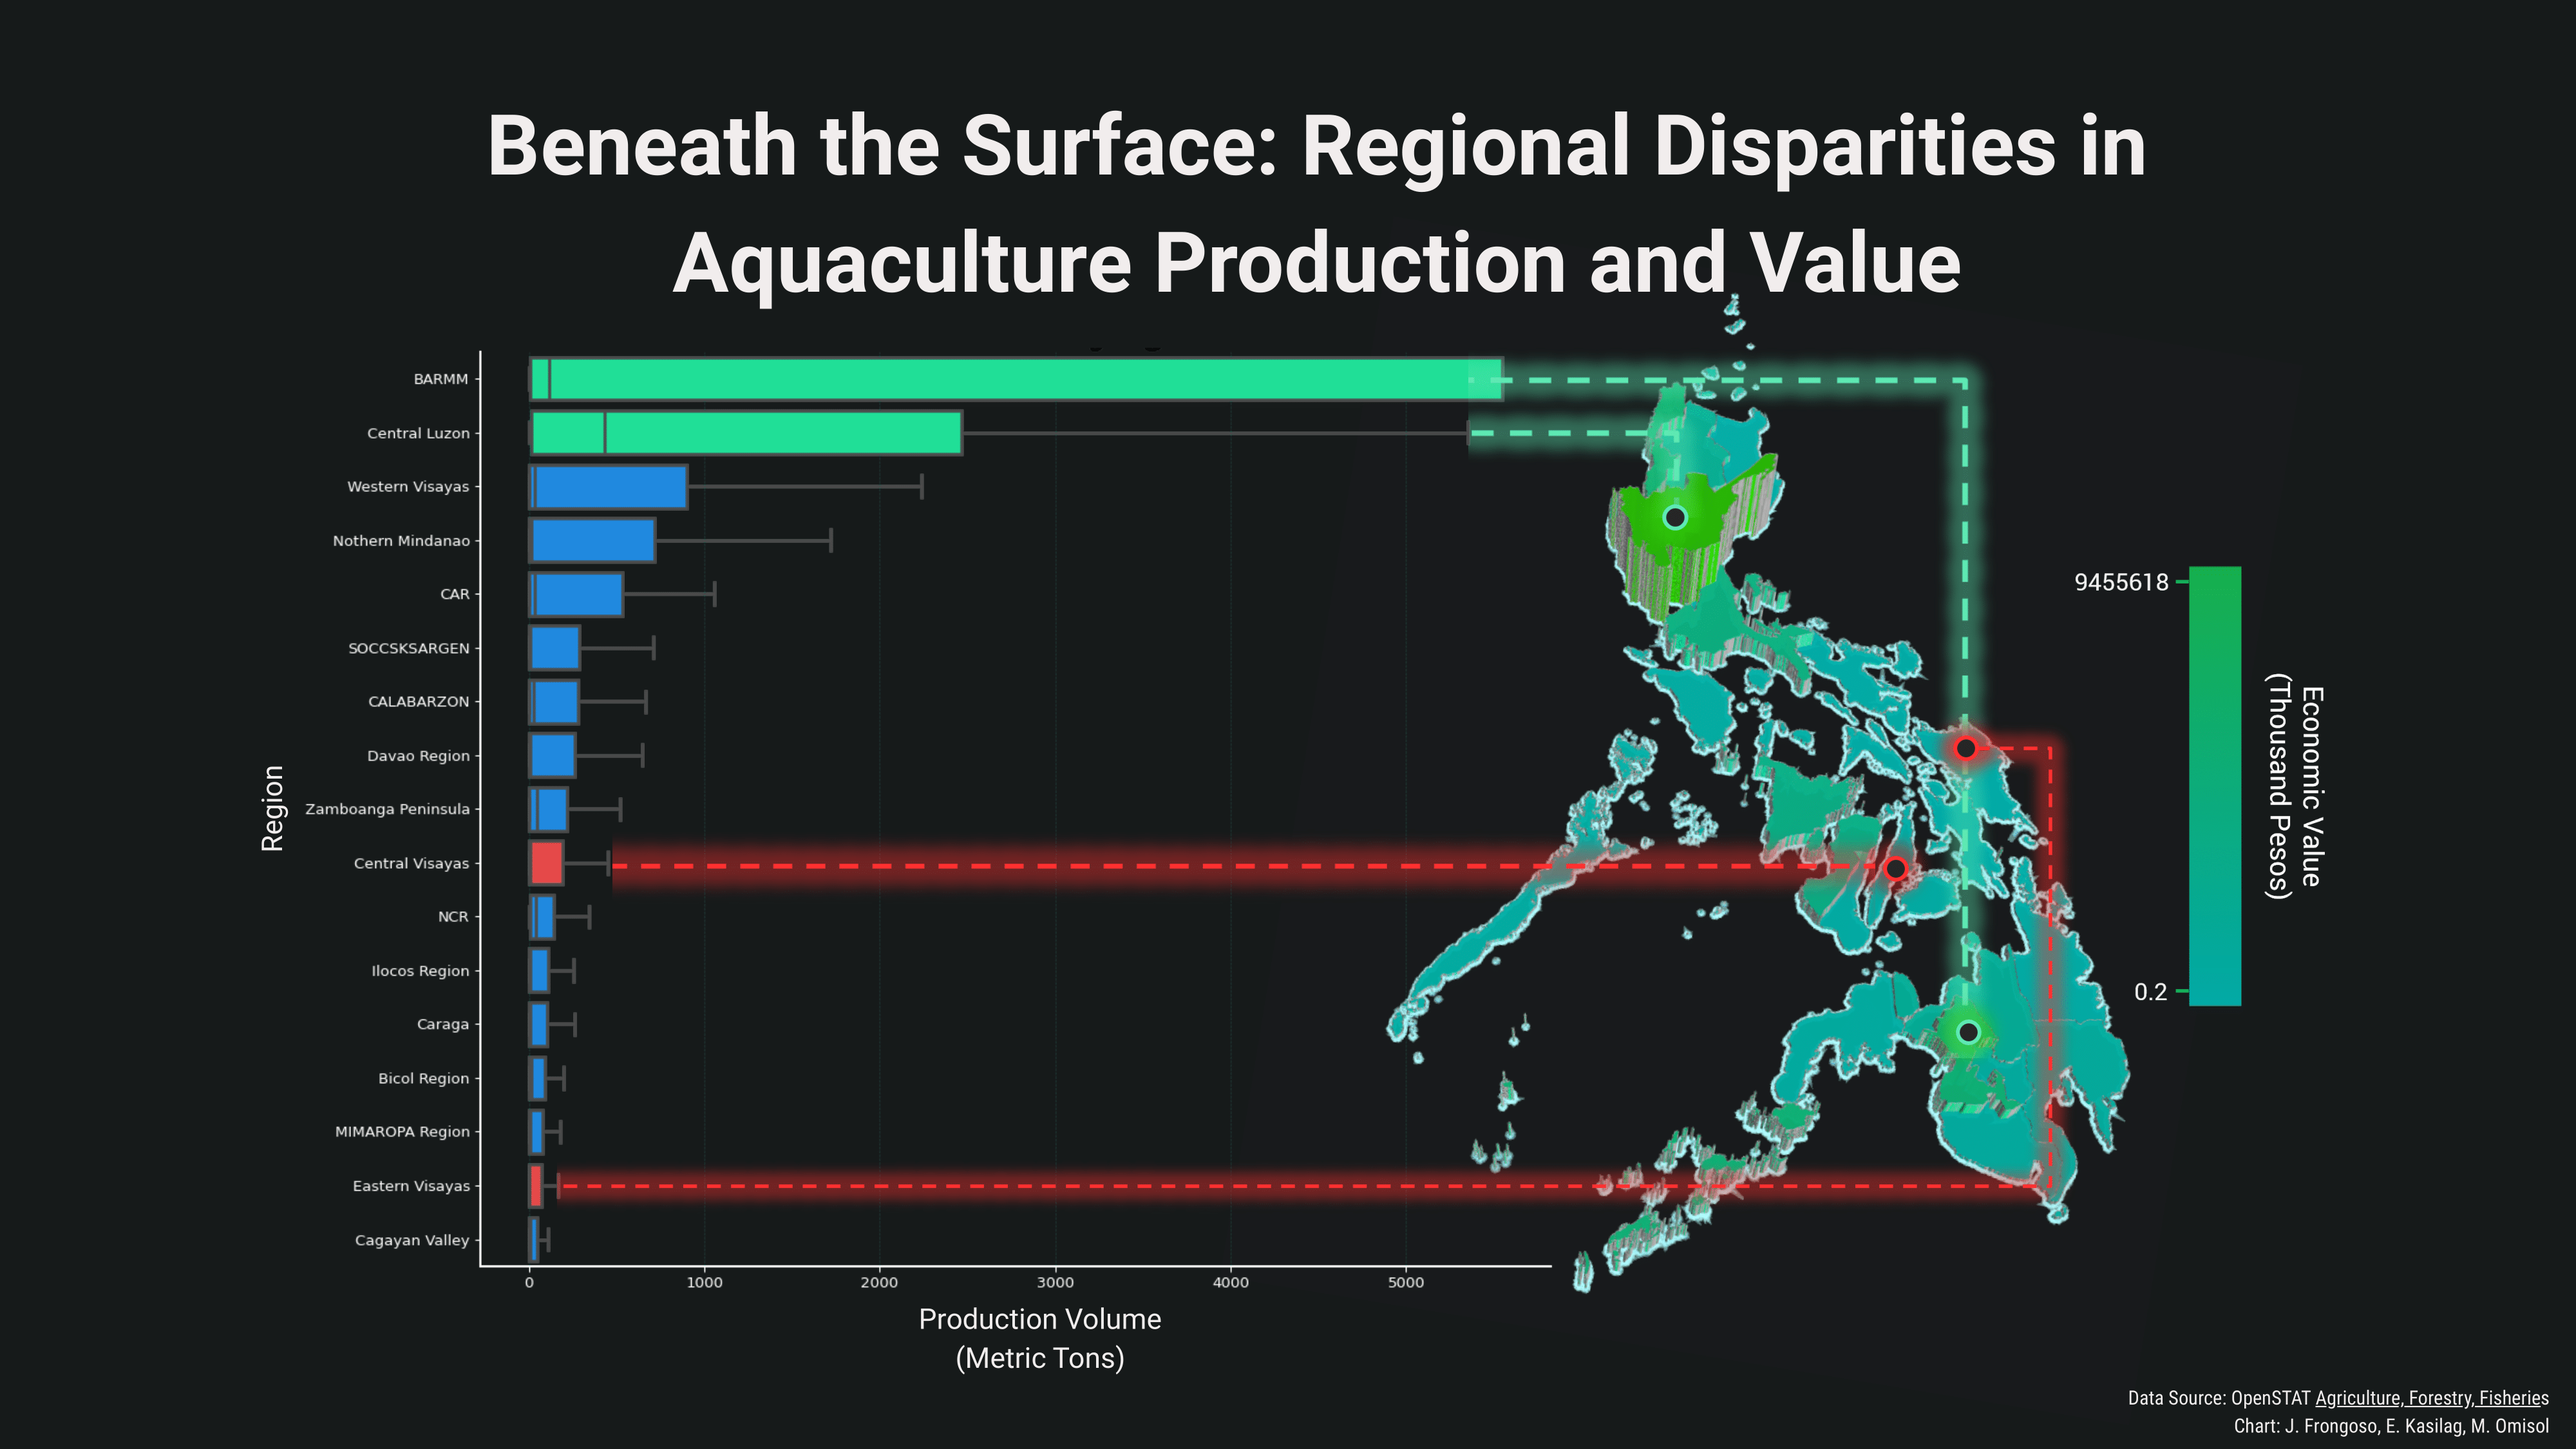
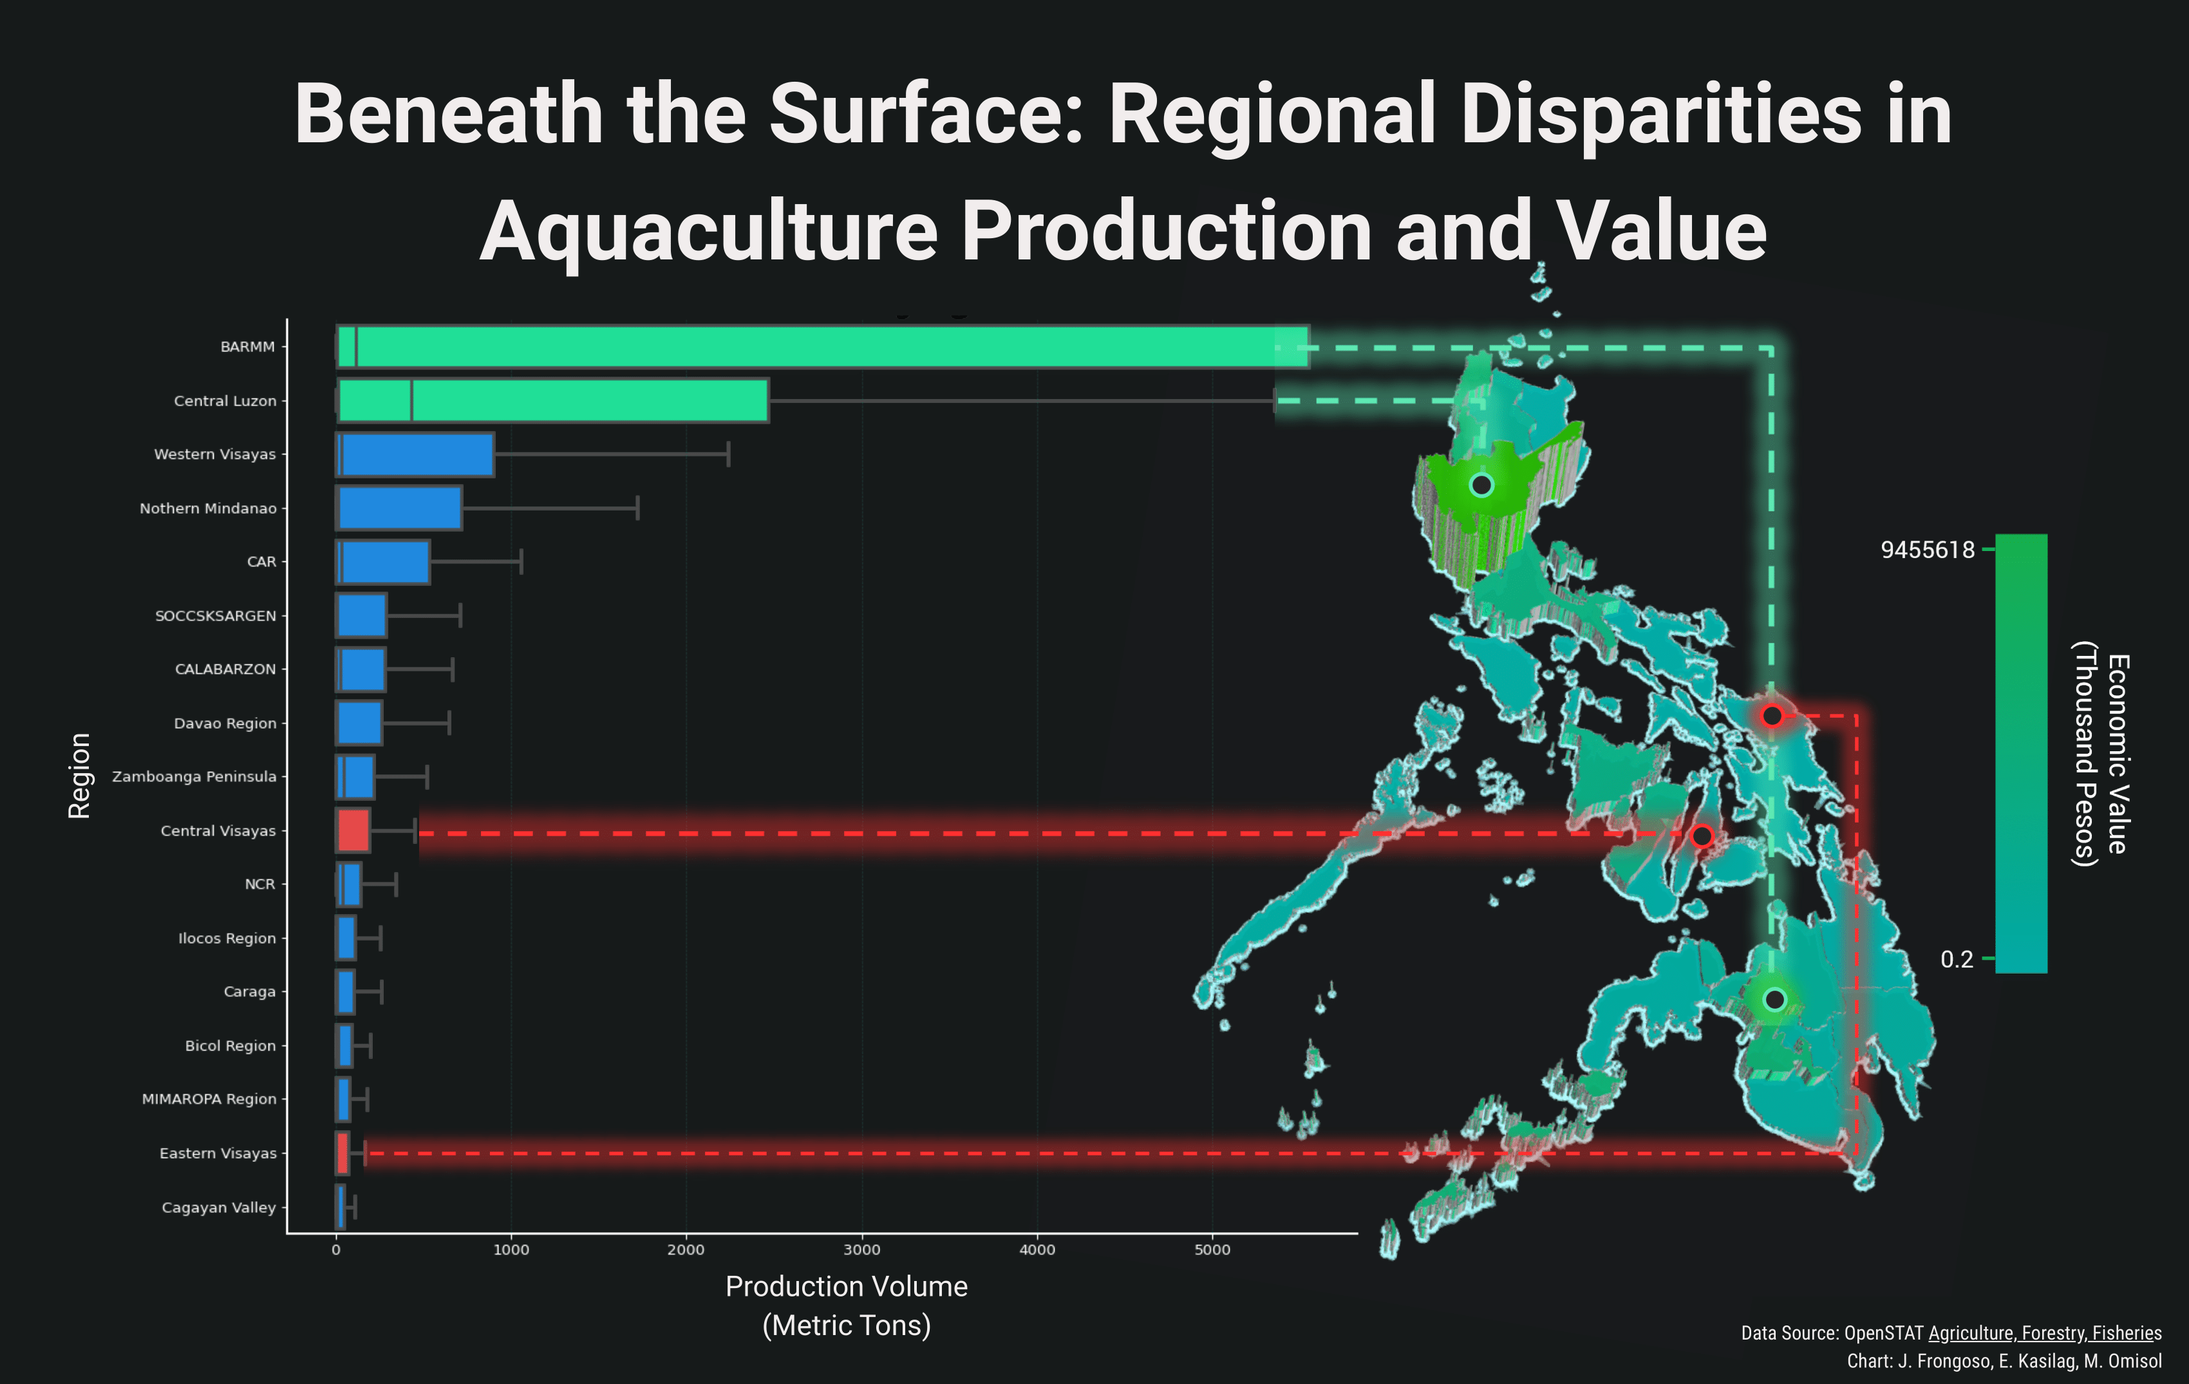
style: overhaul Nutshell.svelte

Changed region(s): [[0.0624, 0.0623, 0.9665, 0.966], [0.8106, 0.9349, 0.9976, 0.9972], [0.0312, 0.5298, 0.0624, 0.5921]]

diff --git a/src/routes/Nutshell.svelte b/src/routes/Nutshell.svelte
@@ -2,13 +2,19 @@
     import { base } from '$app/paths';
     import nutshell_plot from '$lib/images/plots/5_Nutshell_plot.png';
 </script>
-<div class="max-w-5xl mx-auto bg-gray-200 p-6 pt-10 rounded-lg">
-    <h1 class="mb-4">What's our take? (Nutshell Plot)</h1>
-    <p class="mb-4">
-       With these things in mind, we get to see a bigger picture. Having resources is not enough for an economy to work without proper support. Even though a large portion of Visayas is surrounded by a large body of water, they still lack in terms of production volume. But is it the end-all? No, there are prospering regions that dare defy this case. Central Luzon is one of the leading regions in terms of production volume but in their case, they are not as geographically resourceful in terms of bodies of water. This might mean one thing. Other regions are not trying. 
-    </p>
-    <p class="mb-4">
-        Or it could be that the disparity lies in access to aquaculture infrastructure, policy support, and investment in technology. BARMM, for instance, dominates production—suggesting that when regions are empowered, productivity can skyrocket regardless of long-standing challenges. Meanwhile, the map also reveals that economic value doesn’t always correlate directly with production volume, hinting at deeper systemic issues in pricing, value chains, and market access. This further emphasizes the need for a more equitable and strategic approach to aquaculture development across regions.
-    </p>
-    <img alt="Placeholder" class="w-5xl my-4 mx-auto" src="{base}/images/plots/5_Nutshell_plot.png" />
+<div class="max-w-5xl mx-auto bg-[#161a1a] pb-6 pr-6 pt-10 rounded-lg">
+    <h1 class="pl-6 mb-4 bg-gradient-to-r from-blue-600 via-green-500 to-indigo-400 inline-block text-transparent bg-clip-text">What's our take? In a nutshell...</h1>
+    <div class="grid grid-cols-[65%_35%]">
+        <div class="flex items-center justify-center">
+            <img alt="Placeholder" class="w-full mx-auto" src="{base}/images/plots/5_Nutshell_plot.png" />
+        </div>
+        <div class="text-right text-[13px] text-gray-300 pt-4 pl-6">
+            <p class="mb-4">
+                With these things in mind, we get to see a bigger picture. Having resources is not enough for an economy to work without proper support. Even though a large portion of Visayas is surrounded by a large body of water, they still lack in terms of production volume. But is it the end-all? No, there are prospering regions that dare defy this case. Central Luzon is one of the leading regions in terms of production volume but in their case, they are not as geographically resourceful in terms of bodies of water. This might mean one thing. Other regions are not trying. 
+            </p>
+            <p class="mb-4">
+                Or it could be that the disparity lies in access to aquaculture infrastructure, policy support, and investment in technology. BARMM, for instance, dominates production—suggesting that when regions are empowered, productivity can skyrocket regardless of long-standing challenges. Meanwhile, the map also reveals that economic value doesn’t always correlate directly with production volume, hinting at deeper systemic issues in pricing, value chains, and market access. This further emphasizes the need for a more equitable and strategic approach to aquaculture development across regions.
+            </p>
+        </div>
+    </div>
 </div>

diff --git a/src/routes/exploratory-data-analysis/EDA.svelte b/src/routes/exploratory-data-analysis/EDA.svelte
@@ -45,8 +45,8 @@
     import multi_volume_region_trend from "$lib/images/plots/3-3-4_Production_Volume_Trend_for_each_Region.png";
 </script>
 
-<div class="max-w-5xl mx-auto">
-    <h1 class="mb-4">Exploratory Data Analysis</h1>
+<div class="max-w-5xl mx-auto bg-gray-200 p-6 pt-10 rounded-lg">
+    <h1 class="mb-4">Exploratory Data Analysis (In-Depth)</h1>
     <div class="flex items-center bg-blue-500 text-white text-sm font-medium px-4 py-3 mb-4" role="alert">
         <svg class="fill-current w-4 h-4 mr-2" xmlns="http://www.w3.org/2000/svg" viewBox="0 0 20 20"><path d="M12.432 0c1.34 0 2.01.912 2.01 1.957 0 1.305-1.164 2.512-2.679 2.512-1.269 0-2.009-.75-1.974-1.99C9.789 1.436 10.67 0 12.432 0zM8.309 20c-1.058 0-1.833-.652-1.093-3.524l1.214-5.092c.211-.814.246-1.141 0-1.141-.317 0-1.689.562-2.502 1.117l-.528-.88c2.572-2.186 5.531-3.467 6.801-3.467 1.057 0 1.233 1.273.705 3.23l-1.391 5.352c-.246.945-.141 1.271.106 1.271.317 0 1.357-.392 2.379-1.207l.6.814C12.098 19.02 9.365 20 8.309 20z"/></svg>
         <p>This is a more user-friendly look to the analysis.
